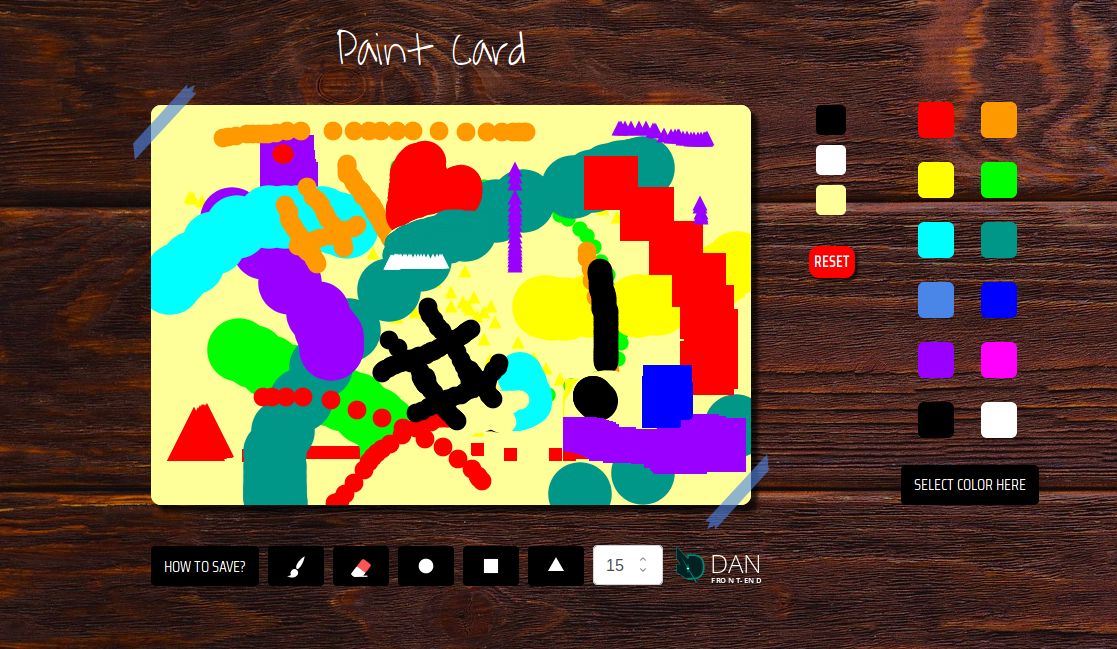
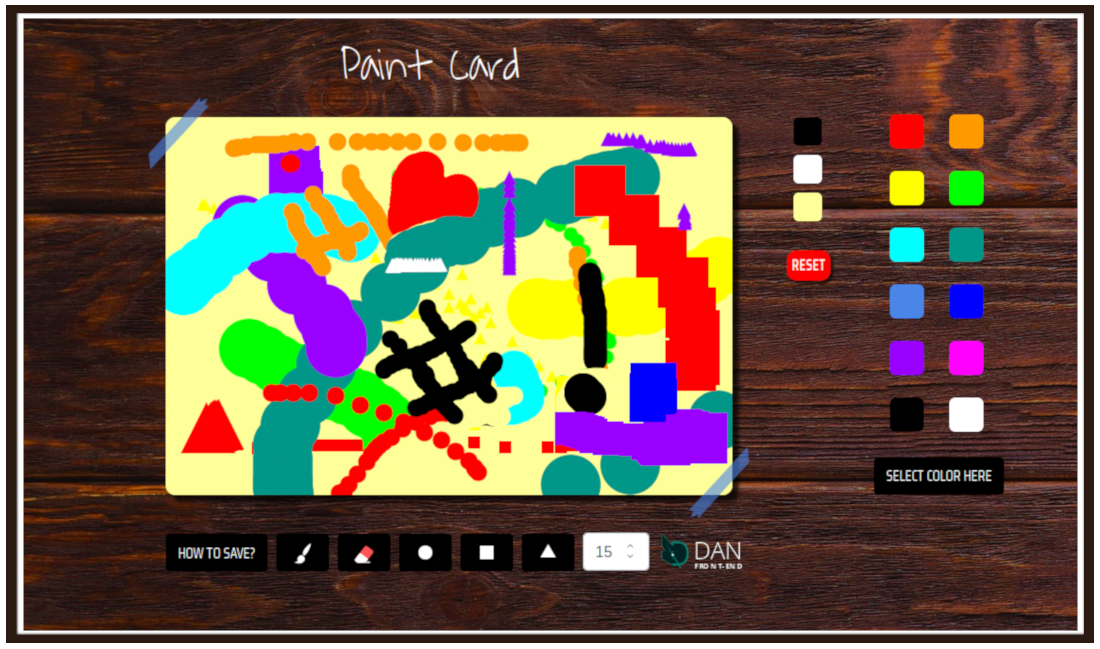
print com borda

diff --git a/README.md b/README.md
@@ -1,4 +1,4 @@
 # paint-card
 A simple drawing tool developed with JS
 
-![Print of Paint Card](https://raw.githubusercontent.com/AndraddeDan/paint-card/master/assets/imgs/print.png)
+![Print of Paint Card](assets/imgs/print.png)
